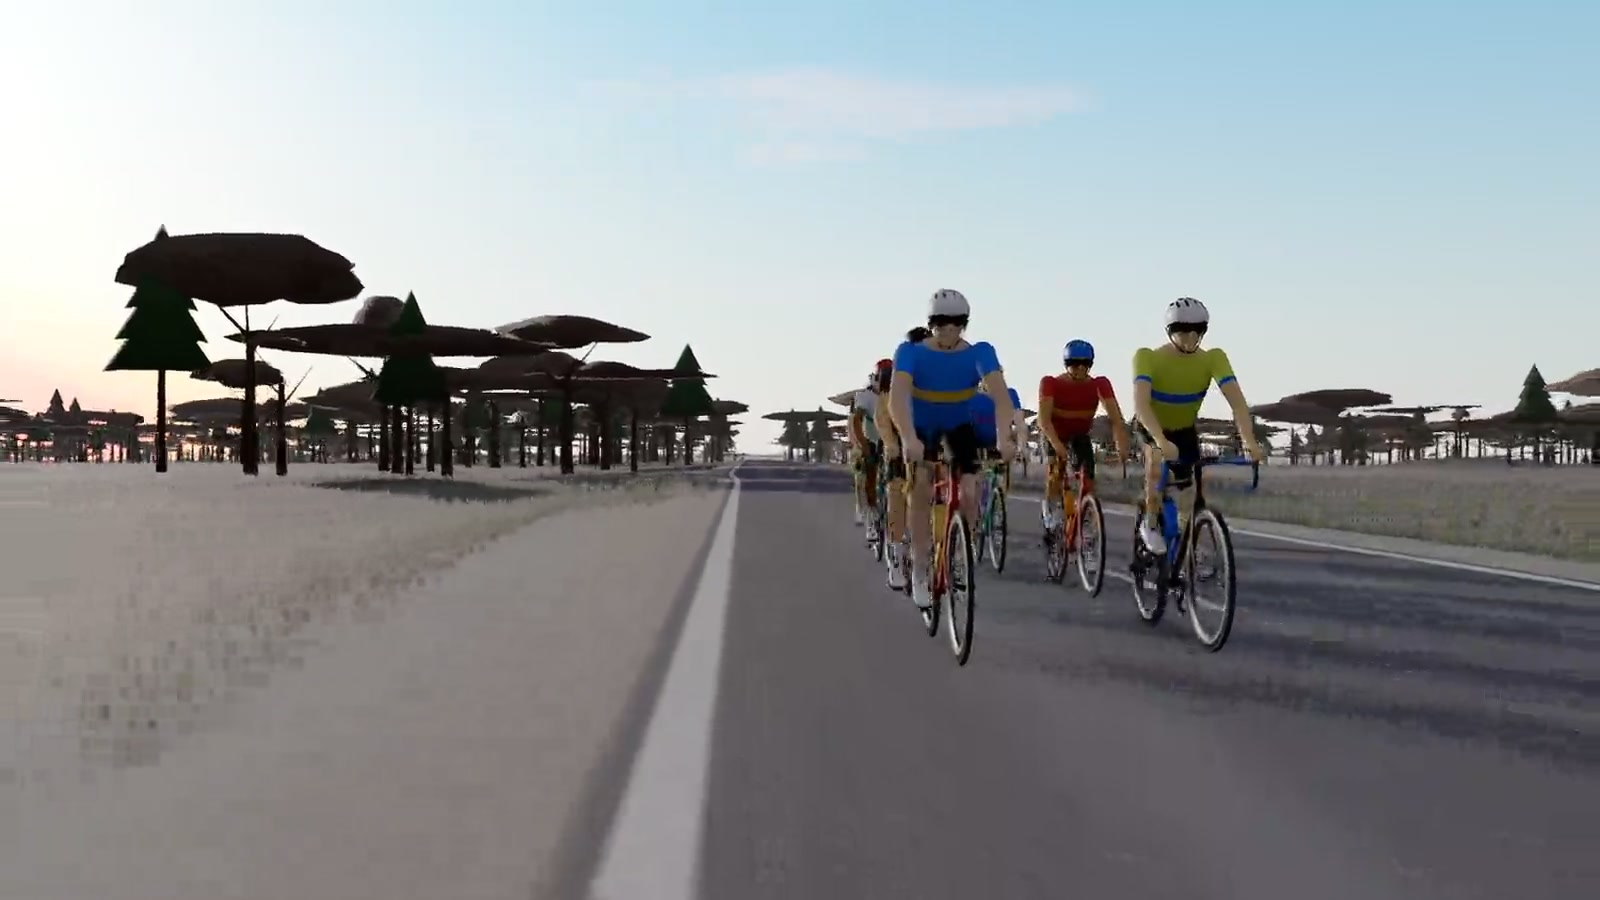
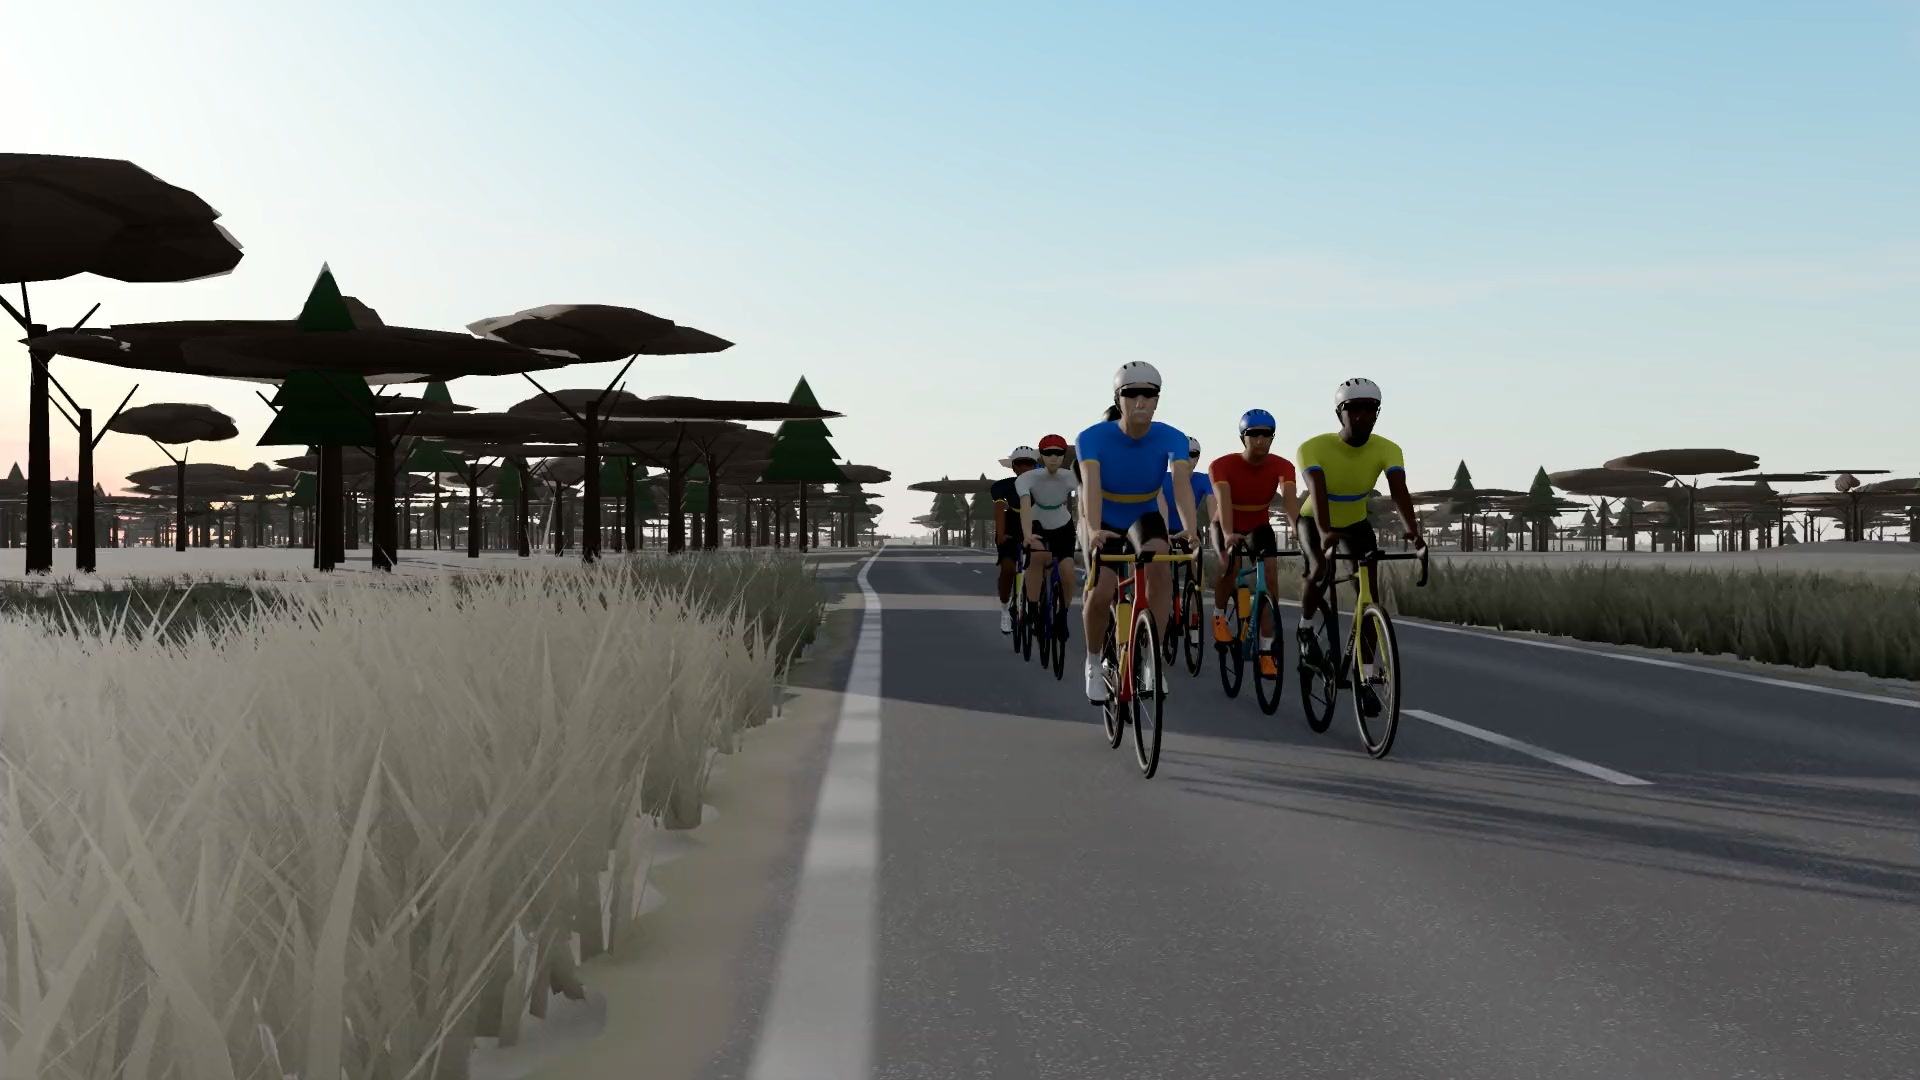
feat(menu): boucles d'accueil refaites avec lunettes, mains et chaussures corrigées ; images fixes et version des médias (5)

diff --git a/apps/client/src/main.ts b/apps/client/src/main.ts
@@ -125,7 +125,7 @@ function worldOverlay(label: string): HTMLElement {
 }
 
 /** Version des médias du menu (vidéos, images) : à augmenter quand on les régénère (cache navigateur). */
-const MENU_MEDIA_VERSION = 4;
+const MENU_MEDIA_VERSION = 5;
 
 /** Boucle vidéo de la saison en fond du menu (public/menu/loop-<saison>.webm), sur son image fixe. */
 function createMenuVideo(el: HTMLVideoElement | null) {
